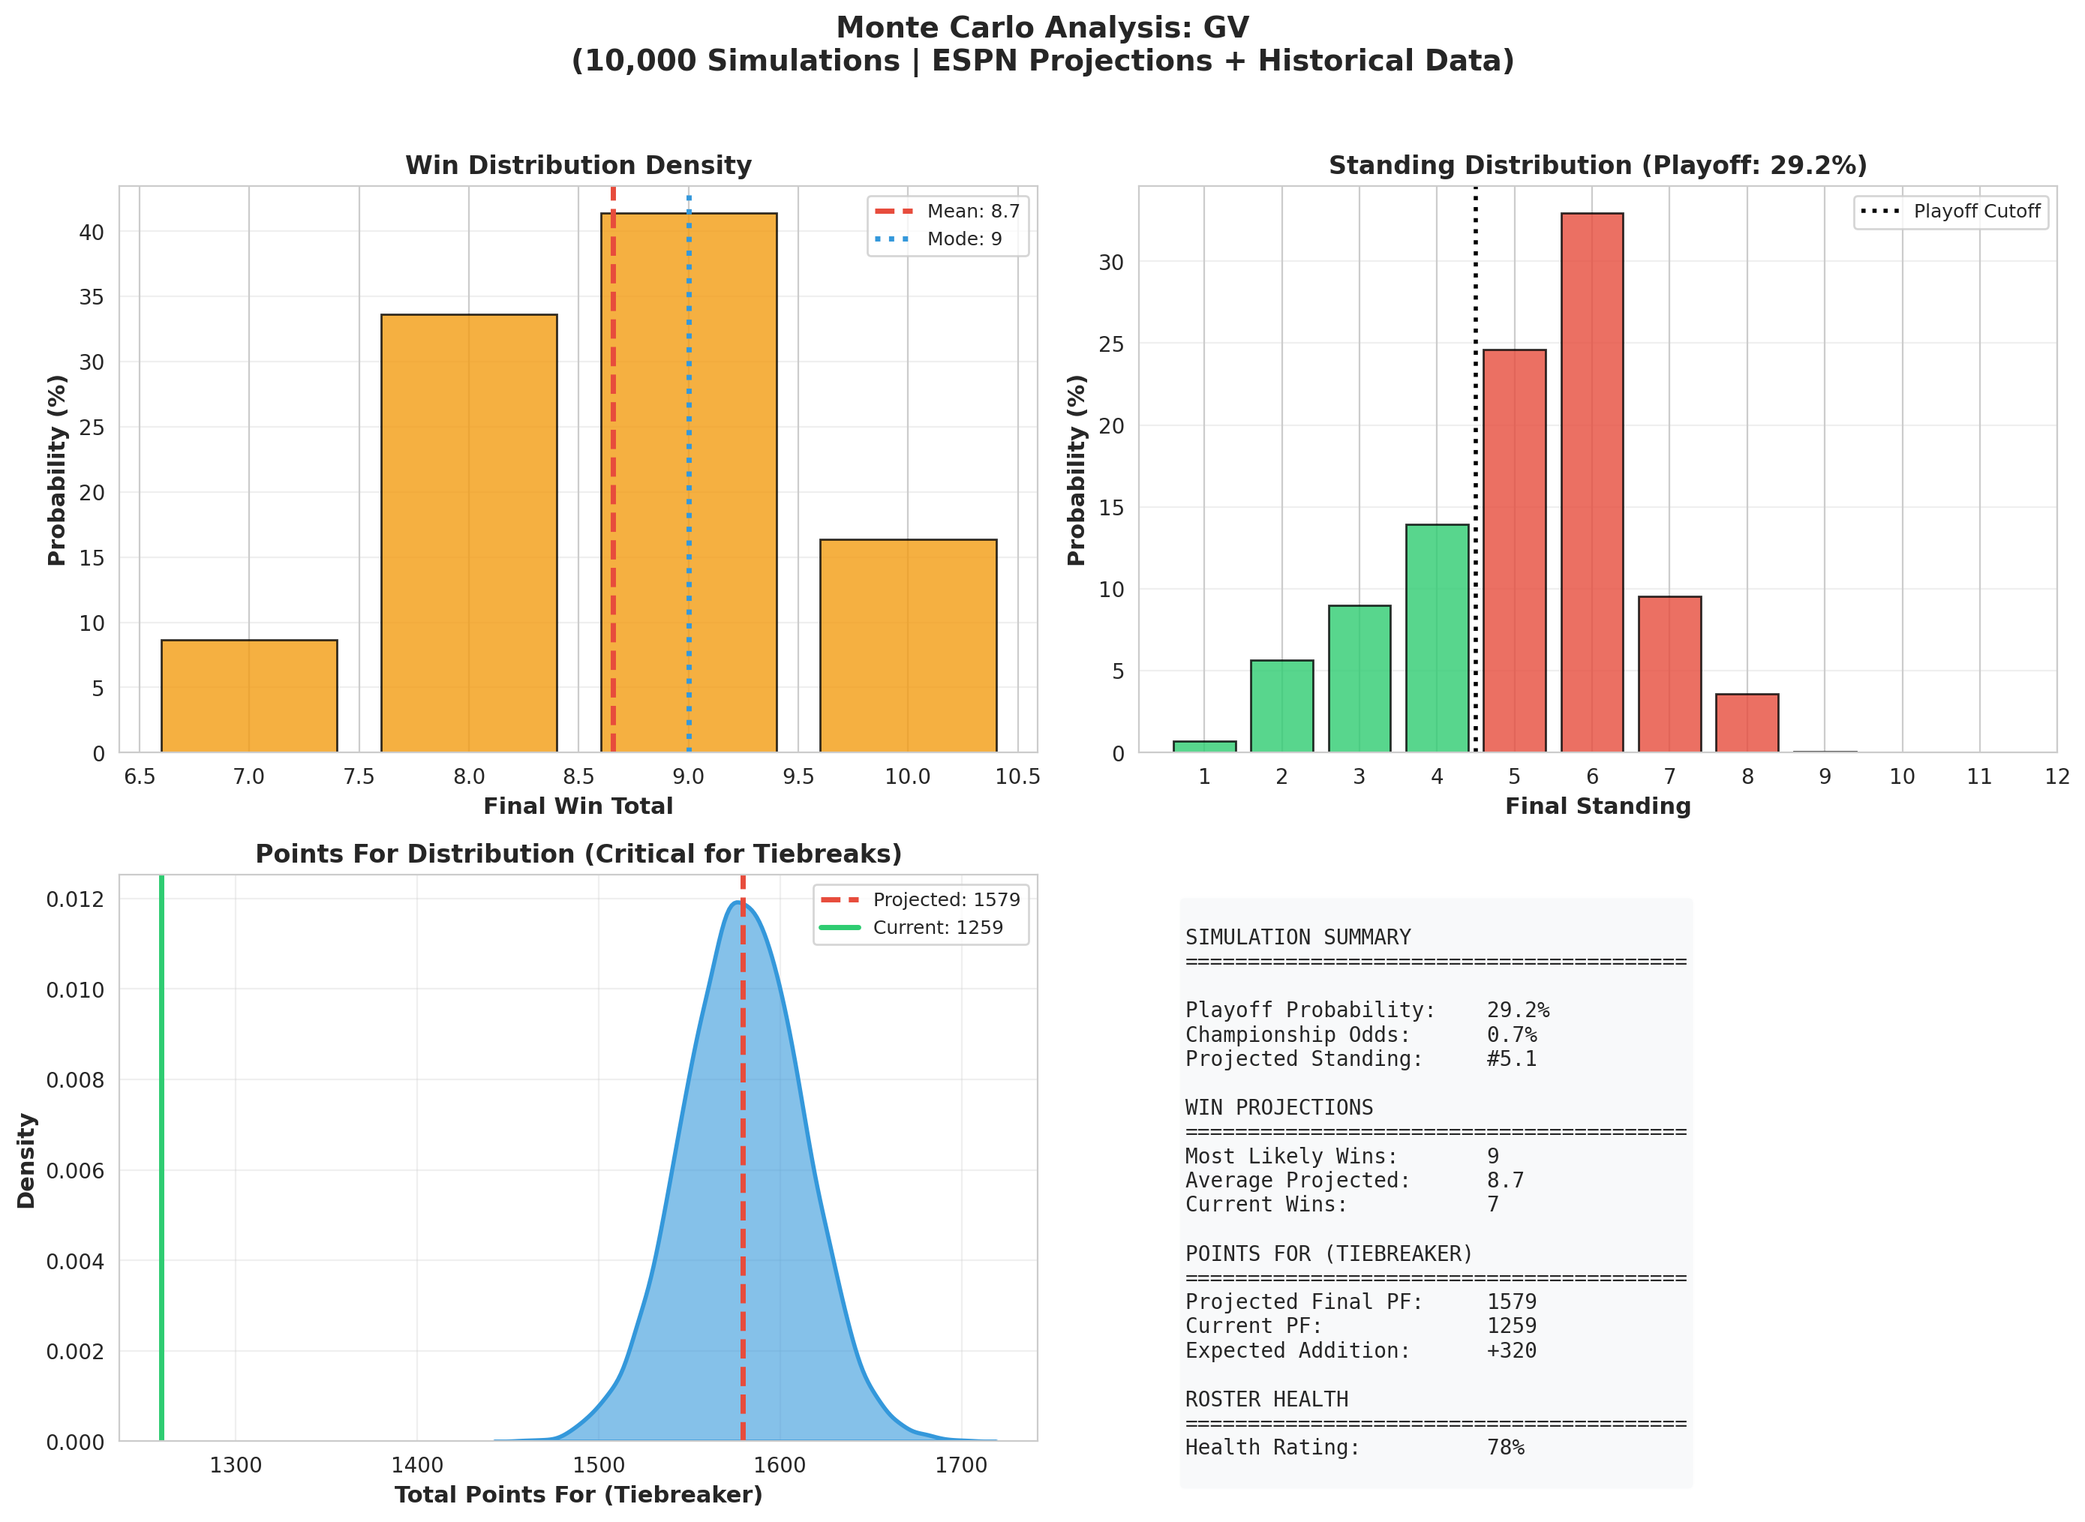
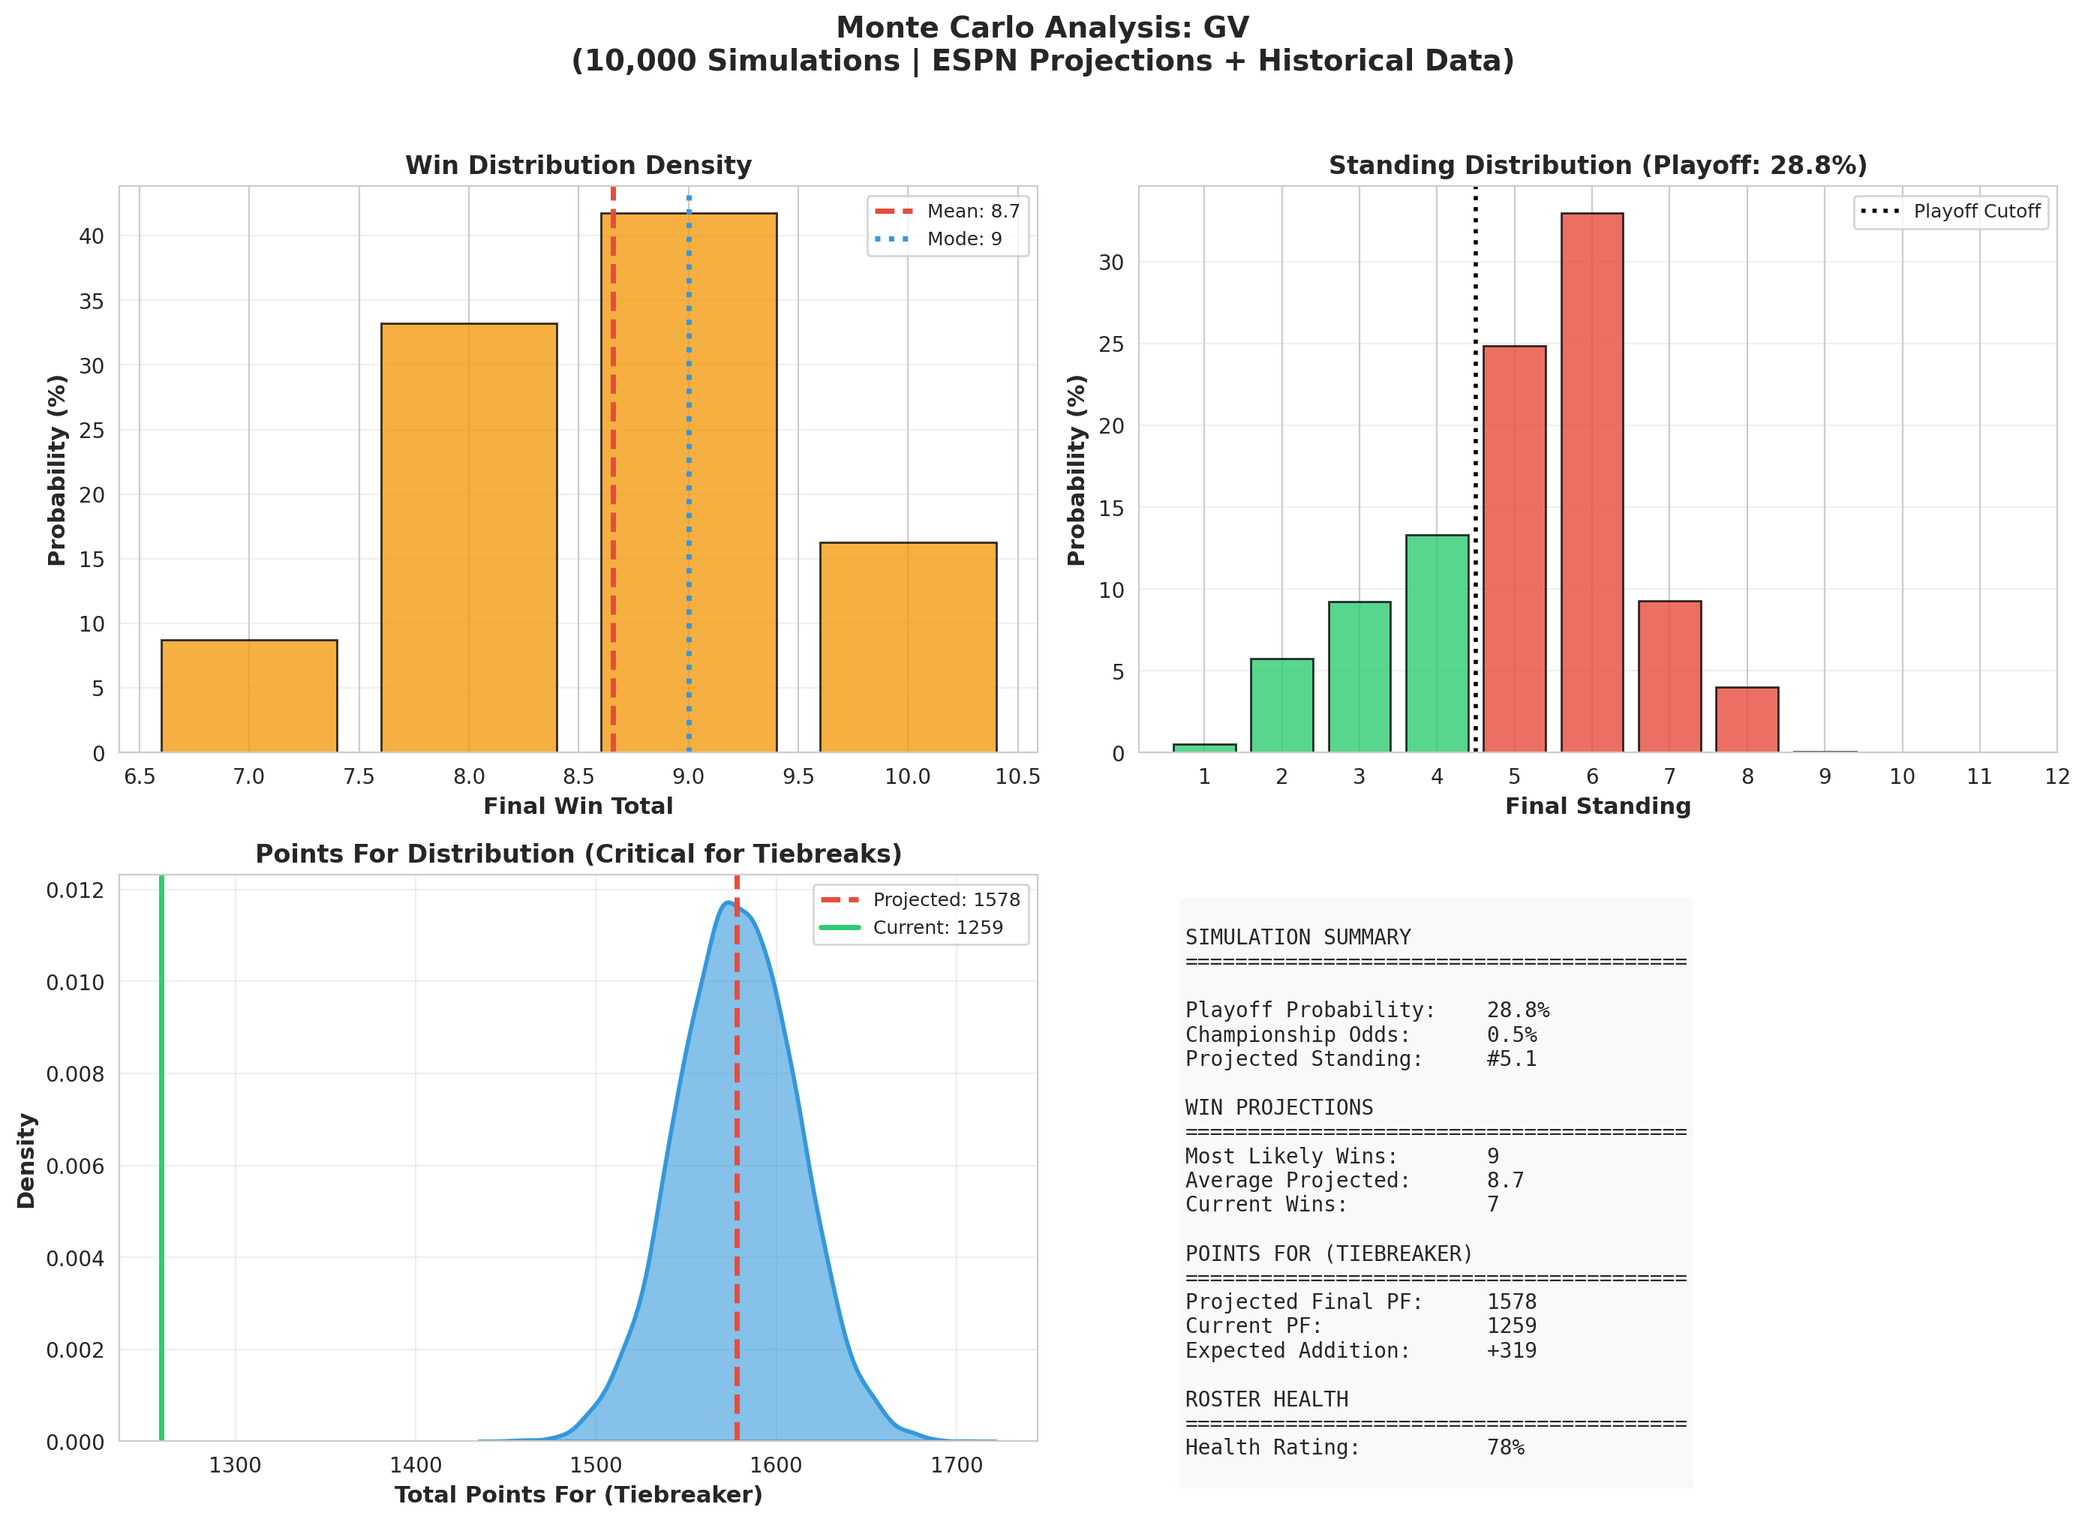
Add debug logging for specific team roster data and update analysis report
Add debug logging to espn_api.py and team_analysis.py to capture all bench players for the 'WOOD' team, and update the power rankings analysis report with slight numerical adjustments.

Replit-Commit-Author: Agent
Replit-Commit-Session-Id: a1b036e6-8762-4180-88a8-0ea07671e400
Replit-Commit-Checkpoint-Type: full_checkpoint
Replit-Commit-Event-Id: a6eacced-b87b-4673-a6cc-5e2a828b1e56

diff --git a/espn_api.py b/espn_api.py
@@ -413,6 +413,13 @@ class ESPNFantasyAPI:
                 total_starters = len(starters)
                 roster_health_pct = healthy_count / max(total_starters, 1)
                 
+                # DEBUG: Print all bench players for WOOD
+                if team_abbrev == 'WOOD':
+                    print(f"\n=== DEBUG ESPN API: WOOD ALL BENCH PLAYERS ===")
+                    for p in bench_players:
+                        print(f"  {p.name} | {p.position} | status={p.injury_status} | proj={p.projected_points}")
+                    print(f"=== END ESPN API DEBUG ===\n")
+                
                 injury_impact = sum(p.projected_points for p in injured_starters) / max(total_starter_projection, 1)
                 
                 variance_mult = 1.0 + (injury_impact * 0.5) + (len(bench_studs) * 0.05)

diff --git a/team_analysis.py b/team_analysis.py
@@ -1760,6 +1760,15 @@ The Optimizer is nothing short of **revolutionary**. It scans every roster, dete
     for team, health in sorted(roster_health.items(), key=lambda x: x[1]['roster_health_pct']):
         health_pct = health['roster_health_pct'] * 100
         
+        # DEBUG: Print all roster data for WOOD
+        if team == 'WOOD':
+            print(f"\n=== DEBUG: WOOD ROSTER DATA ===")
+            print(f"injured_starters: {health.get('injured_starters', [])}")
+            print(f"ir_players: {health.get('ir_players', [])}")
+            print(f"injured_bench: {health.get('injured_bench', [])}")
+            print(f"bench_studs: {health.get('bench_studs', [])}")
+            print(f"=== END DEBUG ===\n")
+        
         all_injured = []
         existing_names = set()
         

diff --git a/power_rankings_analysis.md b/power_rankings_analysis.md
@@ -1,5 +1,5 @@
 # 2025 Fantasy Football Power Rankings Analysis
-## Week 12 Update - Generated November 27, 2025 at 08:23 AM
+## Week 12 Update - Generated November 27, 2025 at 08:26 AM
 
 ---
 
@@ -174,14 +174,14 @@ Based on 10,000 Monte Carlo simulations blending ESPN projections with historica
 
 | Team | Record | Playoff % | Most Likely Wins | Projected PF | Proj. Standing | #1 Seed % | PF Leader % |
 |------|--------|-----------|------------------|--------------|----------------|----------------|-------------|
-| MP | 9-3 | 98.7% | 11 | 1724 | #1.4 | 77.3% | 43.0% |
-| ZSF | 7-5 | 75.7% | 9 | 1728 | #3.3 | 9.4% | 47.6% |
-| sgf | 8-4 | 72.1% | 9 | 1666 | #3.5 | 8.5% | 6.0% |
-| KIRK | 7-5 | 75.0% | 9 | 1653 | #3.6 | 2.5% | 1.5% |
-| POO | 7-5 | 47.2% | 9 | 1600 | #4.5 | 1.6% | 0.1% |
-| GV | 7-5 | 29.2% | 9 | 1579 | #5.1 | 0.7% | 0.0% |
-| PATS | 5-7 | 1.4% | 7 | 1630 | #7.7 | 0.0% | 1.8% |
-| GEMP | 6-6 | 0.8% | 7 | 1464 | #7.7 | 0.0% | 0.0% |
+| MP | 9-3 | 98.6% | 11 | 1723 | #1.4 | 77.2% | 42.2% |
+| ZSF | 7-5 | 75.5% | 9 | 1728 | #3.4 | 9.7% | 48.4% |
+| sgf | 8-4 | 73.4% | 9 | 1667 | #3.5 | 8.7% | 6.3% |
+| KIRK | 7-5 | 75.0% | 9 | 1652 | #3.6 | 2.4% | 1.4% |
+| POO | 7-5 | 46.5% | 9 | 1601 | #4.5 | 1.6% | 0.2% |
+| GV | 7-5 | 28.8% | 9 | 1578 | #5.1 | 0.5% | 0.0% |
+| PATS | 5-7 | 1.3% | 7 | 1630 | #7.7 | 0.0% | 1.5% |
+| GEMP | 6-6 | 0.8% | 7 | 1465 | #7.7 | 0.0% | 0.0% |
 | KESS | 5-7 | 0.0% | 6 | 1439 | #8.9 | 0.0% | 0.0% |
 | ROUX | 4-8 | 0.0% | 6 | 1437 | #9.5 | 0.0% | 0.0% |
 | 3000 | 4-8 | 0.0% | 4 | 1358 | #11.1 | 0.0% | 0.0% |
@@ -217,11 +217,11 @@ Since Points For is the tiebreaker, here's who's positioned best if records end 
 | Rank | Team | Current PF | Projected Final PF | Expected Addition |
 |------|------|------------|-------------------|-------------------|
 | 1 | ZSF | 1379 | 1728 | +349 |
-| 2 | MP | 1390 | 1724 | +334 |
-| 3 | sgf | 1355 | 1666 | +311 |
-| 4 | KIRK | 1312 | 1653 | +340 |
-| 5 | PATS | 1299 | 1630 | +331 |
-| 6 | POO | 1267 | 1600 | +333 |
+| 2 | MP | 1390 | 1723 | +333 |
+| 3 | sgf | 1355 | 1667 | +312 |
+| 4 | KIRK | 1312 | 1652 | +340 |
+| 5 | PATS | 1299 | 1630 | +332 |
+| 6 | POO | 1267 | 1601 | +334 |
 
 
 ---
@@ -269,18 +269,18 @@ Each manager's **total investment** = $250 buy-in + (FAAB Spent ÷ 2). Net Expec
 
 | Team | Playoff % | PF Leader % | Total Cost | E[Playoff] | E[PF Prize] | E[Weekly] | E[Return] | **Net Expected** |
 |------|-----------|-------------|------------|------------|-------------|-----------|-----------|------------------|
-| MP | 98.7% | 43.0% | $258 | $1281 | $94 | $28 | $1403 | **$1145** |
-| ZSF | 75.7% | 47.6% | $289 | $452 | $104 | $28 | $583 | **$294** |
-| sgf | 72.1% | 6.0% | $258 | $404 | $13 | $27 | $444 | **$186** |
-| KIRK | 75.0% | 1.5% | $265 | $307 | $3 | $26 | $337 | **$72** |
-| POO | 47.2% | 0.1% | $270 | $162 | $0 | $26 | $188 | **$-82** |
-| GV | 29.2% | 0.0% | $278 | $93 | $0 | $25 | $118 | **$-160** |
+| MP | 98.6% | 42.2% | $258 | $1276 | $92 | $28 | $1396 | **$1138** |
+| ZSF | 75.5% | 48.4% | $289 | $447 | $105 | $28 | $580 | **$291** |
+| sgf | 73.4% | 6.3% | $258 | $414 | $14 | $27 | $455 | **$197** |
+| KIRK | 75.0% | 1.4% | $265 | $307 | $3 | $26 | $336 | **$71** |
+| POO | 46.5% | 0.2% | $270 | $164 | $0 | $26 | $190 | **$-80** |
+| GV | 28.8% | 0.0% | $278 | $92 | $0 | $25 | $117 | **$-161** |
 | 3000 | 0.0% | 0.0% | $250 | $0 | $0 | $22 | $22 | **$-228** |
 | GEMP | 0.8% | 0.0% | $256 | $0 | $0 | $24 | $24 | **$-232** |
 | WOOD | 0.0% | 0.0% | $254 | $0 | $0 | $21 | $21 | **$-233** |
 | ROUX | 0.0% | 0.0% | $266 | $0 | $0 | $23 | $23 | **$-243** |
 | KESS | 0.0% | 0.0% | $278 | $0 | $0 | $23 | $23 | **$-255** |
-| PATS | 1.4% | 1.8% | $296 | $1 | $4 | $26 | $31 | **$-265** |
+| PATS | 1.3% | 1.5% | $296 | $1 | $3 | $26 | $30 | **$-266** |
 
 
 ### How Expected Payouts Are Calculated
@@ -510,7 +510,7 @@ The Optimizer is nothing short of **revolutionary**. It scans every roster, dete
 
 Sitting atop the standings with a commanding 9-3 record, this team has earned the top spot through dominant performance. Their 115.85 PPG leads the league, which translates to an impressive 8.36 MVP-W and 9 top-6 weekly finishes. With a +0.64 WAX, they've caught a few breaks too - but at this level, you take what you can get. 
 
-**Projection Summary:** Most likely finish: **11 wins** | Projected PF: **1724** | Playoff: **98.7%** | #1 Seed: **77.3%** 
+**Projection Summary:** Most likely finish: **11 wins** | Projected PF: **1723** | Playoff: **98.6%** | #1 Seed: **77.2%** 
 
 **Projection Breakdown (Avg Per Game, Weeks 13-15):** 
 | Source | Projection | Notes | 
@@ -585,7 +585,7 @@ Fully healthy starting lineup.
 
 Second place with 8-4, trailing the leader by 3.54 power points. Scoring 112.91 PPG with 8 top-6 finishes shows genuine quality. 
 
-**Projection Summary:** Most likely finish: **9 wins** | Projected PF: **1666** | Playoff: **72.1%** | #1 Seed: **8.5%** 
+**Projection Summary:** Most likely finish: **9 wins** | Projected PF: **1667** | Playoff: **73.4%** | #1 Seed: **8.7%** 
 
 **Projection Breakdown (Avg Per Game, Weeks 13-15):** 
 | Source | Projection | Notes | 
@@ -595,7 +595,7 @@ Second place with 8-4, trailing the leader by 3.54 power points. Scoring 112.91 
 | Historical PPG | 112.9 pts | Season average through week 12 | 
 | Monte Carlo Input | 103.5 pts | 60% Optimized + 40% Historical | 
 
-*Right on the knife's edge at 72%. ESPN projects enough points to stay competitive, but so does everyone else. Injuries to Chris Olave (QUESTIONABLE) add unpredictability to the projections.* 
+*Right on the knife's edge at 73%. ESPN projects enough points to stay competitive, but so does everyone else. Injuries to Chris Olave (QUESTIONABLE) add unpredictability to the projections.* 
 
 **Roster Health & Availability Report:** 
 Key injuries: Chris Olave (RB, QUESTIONABLE). Bench depth: Joe Burrow (QB) available. 
@@ -680,7 +680,7 @@ Key injuries: Chris Olave (RB, QUESTIONABLE). Bench depth: Joe Burrow (QB) avail
 
 Currently in the playoff picture at #3 with a 7-5 record. Their 114.90 PPG and 7.36 MVP-W put them in solid position. 9 top-6 finishes in 12 weeks shows they can compete with anyone. 
 
-**Projection Summary:** Most likely finish: **9 wins** | Projected PF: **1728** | Playoff: **75.7%** | #1 Seed: **9.4%** 
+**Projection Summary:** Most likely finish: **9 wins** | Projected PF: **1728** | Playoff: **75.5%** | #1 Seed: **9.7%** 
 
 **Projection Breakdown (Avg Per Game, Weeks 13-15):** 
 | Source | Projection | Notes | 
@@ -690,7 +690,7 @@ Currently in the playoff picture at #3 with a 7-5 record. Their 114.90 PPG and 7
 | Historical PPG | 114.9 pts | Season average through week 12 | 
 | Monte Carlo Input | 116.2 pts | 60% Optimized + 40% Historical | 
 
-*Strong odds at 76%, but fantasy football loves chaos. One bad week and this could get interesting.* 
+*Strong odds at 75%, but fantasy football loves chaos. One bad week and this could get interesting.* 
 
 **Roster Health & Availability Report:** 
 Fully healthy starting lineup. Bench depth: Travis Etienne Jr. (RB) available. 
@@ -755,7 +755,7 @@ Fully healthy starting lineup. Bench depth: Travis Etienne Jr. (RB) available.
 
 Currently in the playoff picture at #4 with a 7-5 record. Their 109.36 PPG and 7.18 MVP-W put them in solid position. 8 top-6 finishes in 12 weeks shows they can compete with anyone. 
 
-**Projection Summary:** Most likely finish: **9 wins** | Projected PF: **1653** | Playoff: **75.0%** | #1 Seed: **2.5%** 
+**Projection Summary:** Most likely finish: **9 wins** | Projected PF: **1652** | Playoff: **75.0%** | #1 Seed: **2.4%** 
 
 **Projection Breakdown (Avg Per Game, Weeks 13-15):** 
 | Source | Projection | Notes | 
@@ -765,7 +765,7 @@ Currently in the playoff picture at #4 with a 7-5 record. Their 109.36 PPG and 7
 | Historical PPG | 109.4 pts | Season average through week 12 | 
 | Monte Carlo Input | 113.4 pts | 60% Optimized + 40% Historical | 
 
-*Right on the knife's edge at 75%. ESPN projects enough points to stay competitive, but so does everyone else.* 
+*Strong odds at 75%, but fantasy football loves chaos. One bad week and this could get interesting.* 
 
 **Lineup Status:** Optimally set - no BYE week or injury substitutions needed.
 
@@ -823,9 +823,9 @@ Currently in the playoff picture at #4 with a 7-5 record. Their 109.36 PPG and 7
 
 **Record:** 7-5 | **PPG:** 104.92 | **Total PF:** 1259 | **Top6:** 7 | **MVP-W:** 6.82 | **WAX:** +0.18
 
-On the playoff bubble at #5 with 7-5. Need to step it up - only 29.2% playoff odds right now. Their 104.92 PPG and 7 top-6 finishes show potential. 
+On the playoff bubble at #5 with 7-5. Need to step it up - only 28.8% playoff odds right now. Their 104.92 PPG and 7 top-6 finishes show potential. 
 
-**Projection Summary:** Most likely finish: **9 wins** | Projected PF: **1579** | Playoff: **29.2%** | #1 Seed: **0.7%** 
+**Projection Summary:** Most likely finish: **9 wins** | Projected PF: **1578** | Playoff: **28.8%** | #1 Seed: **0.5%** 
 
 **Projection Breakdown (Avg Per Game, Weeks 13-15):** 
 | Source | Projection | Notes | 
@@ -901,9 +901,9 @@ Key injuries: Saquon Barkley (RB, QUESTIONABLE). Bench depth: Dak Prescott (QB) 
 
 **Record:** 7-5 | **PPG:** 105.56 | **Total PF:** 1267 | **Top6:** 6 | **MVP-W:** 6.00 | **WAX:** +1.00
 
-On the playoff bubble at #6 with 7-5. Need to step it up - only 47.2% playoff odds right now. Their 105.56 PPG and 6 top-6 finishes show potential. They've benefited from +1.00 WAX - riding some good matchups. 
+On the playoff bubble at #6 with 7-5. Need to step it up - only 46.5% playoff odds right now. Their 105.56 PPG and 6 top-6 finishes show potential. They've benefited from +1.00 WAX - riding some good matchups. 
 
-**Projection Summary:** Most likely finish: **9 wins** | Projected PF: **1600** | Playoff: **47.2%** | #1 Seed: **1.6%** 
+**Projection Summary:** Most likely finish: **9 wins** | Projected PF: **1601** | Playoff: **46.5%** | #1 Seed: **1.6%** 
 
 **Projection Breakdown (Avg Per Game, Weeks 13-15):** 
 | Source | Projection | Notes | 
@@ -971,9 +971,9 @@ On the playoff bubble at #6 with 7-5. Need to step it up - only 47.2% playoff od
 
 **Record:** 5-7 | **PPG:** 108.22 | **Total PF:** 1299 | **Top6:** 8 | **MVP-W:** 7.18 | **WAX:** -2.18
 
-Sitting at #7 with a 5-7 record - outside looking in. At just 1.4% playoff odds, it would take a miracle. Their 108.22 PPG suggests they have some scoring punch. The -2.18 WAX means they're better than their record - just unlucky. 
+Sitting at #7 with a 5-7 record - outside looking in. At just 1.3% playoff odds, it would take a miracle. Their 108.22 PPG suggests they have some scoring punch. The -2.18 WAX means they're better than their record - just unlucky. 
 
-**Projection Summary:** Most likely finish: **7 wins** | Projected PF: **1630** | Playoff: **1.4%** | #1 Seed: **0.0%** 
+**Projection Summary:** Most likely finish: **7 wins** | Projected PF: **1630** | Playoff: **1.3%** | #1 Seed: **0.0%** 
 
 **Projection Breakdown (Avg Per Game, Weeks 13-15):** 
 | Source | Projection | Notes | 
@@ -1062,7 +1062,7 @@ Key injuries: Jaxson Dart (QB, QUESTIONABLE).
 
 Sitting at #8 with a 6-6 record - outside looking in. At just 0.8% playoff odds, it would take a miracle. Their 97.92 PPG suggests they have some scoring punch. That +1.55 WAX is actually concerning - they've been lucky and still can't crack the top 6. 
 
-**Projection Summary:** Most likely finish: **7 wins** | Projected PF: **1464** | Playoff: **0.8%** | #1 Seed: **0.0%** 
+**Projection Summary:** Most likely finish: **7 wins** | Projected PF: **1465** | Playoff: **0.8%** | #1 Seed: **0.0%** 
 
 **Projection Breakdown (Avg Per Game, Weeks 13-15):** 
 | Source | Projection | Notes | 
@@ -1472,15 +1472,15 @@ Based on Monte Carlo simulation with ESPN projections and historical performance
 
 | Rank | Team | Projected Wins | Projected PF | Current Record | Playoff % |
 |------|------|----------------|--------------|----------------|-----------|
-| 1 | MP | 10.7 | 1724 | 9-3 | 98.7% |
-| 2 | ZSF | 9.0 | 1728 | 7-5 | 75.7% |
-| 3 | sgf | 9.3 | 1666 | 8-4 | 72.1% |
-| 4 | KIRK | 9.2 | 1653 | 7-5 | 75.0% |
-| 5 | POO | 8.9 | 1600 | 7-5 | 47.2% |
-| 6 | GV | 8.7 | 1579 | 7-5 | 29.2% |
-| 7 | PATS | 6.6 | 1630 | 5-7 | 1.4% |
-| 8 | GEMP | 7.2 | 1464 | 6-6 | 0.8% |
-| 9 | KESS | 6.4 | 1439 | 5-7 | 0.0% |
+| 1 | MP | 10.7 | 1723 | 9-3 | 98.6% |
+| 2 | ZSF | 9.0 | 1728 | 7-5 | 75.5% |
+| 3 | sgf | 9.3 | 1667 | 8-4 | 73.4% |
+| 4 | KIRK | 9.2 | 1652 | 7-5 | 75.0% |
+| 5 | POO | 8.9 | 1601 | 7-5 | 46.5% |
+| 6 | GV | 8.7 | 1578 | 7-5 | 28.8% |
+| 7 | PATS | 6.6 | 1630 | 5-7 | 1.3% |
+| 8 | GEMP | 7.2 | 1465 | 6-6 | 0.8% |
+| 9 | KESS | 6.3 | 1439 | 5-7 | 0.0% |
 | 10 | ROUX | 5.6 | 1437 | 4-8 | 0.0% |
 | 11 | 3000 | 4.5 | 1358 | 4-8 | 0.0% |
 | 12 | WOOD | 4.0 | 1330 | 3-9 | 0.0% |
@@ -1491,9 +1491,9 @@ Based on Monte Carlo simulation with ESPN projections and historical performance
 
 *If playoffs started today (top 4 make it, seeded by record then Points For):*
 
-**Semifinal 1:** #1 MP (Proj. PF: 1724) vs #4 KIRK (Proj. PF: 1653)
+**Semifinal 1:** #1 MP (Proj. PF: 1723) vs #4 KIRK (Proj. PF: 1652)
 
-**Semifinal 2:** #2 ZSF (Proj. PF: 1728) vs #3 sgf (Proj. PF: 1666)
+**Semifinal 2:** #2 ZSF (Proj. PF: 1728) vs #3 sgf (Proj. PF: 1667)
 
 ---
 
